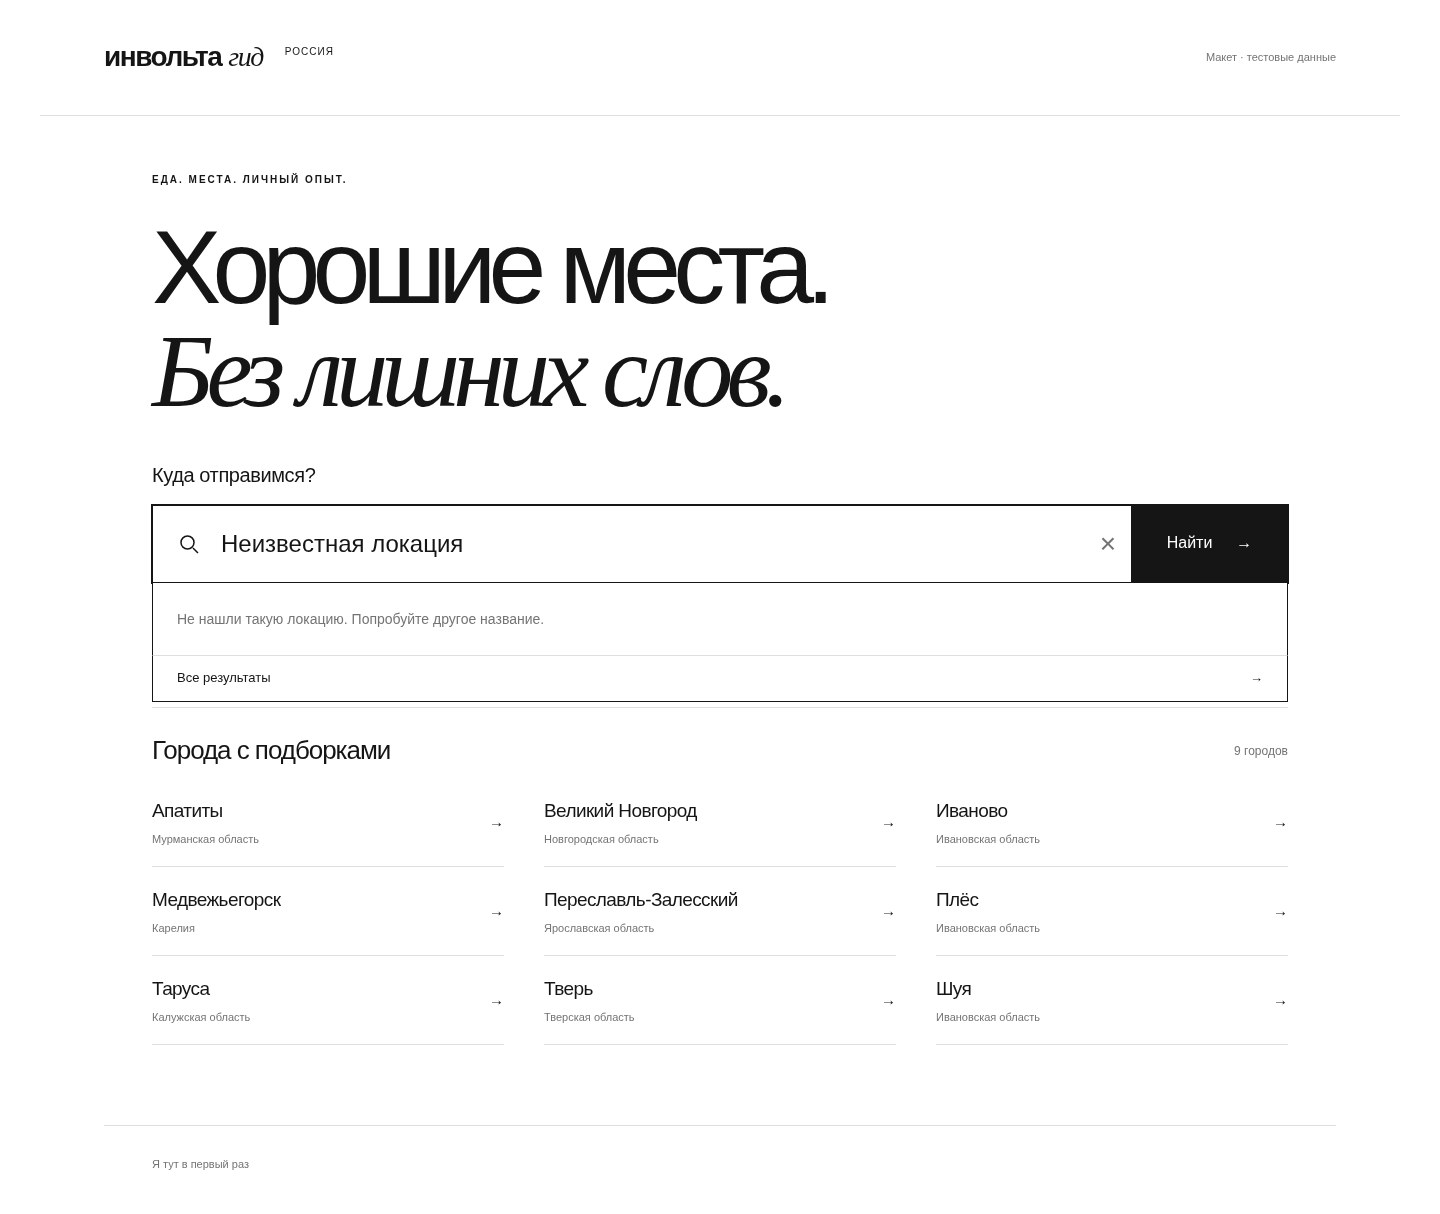
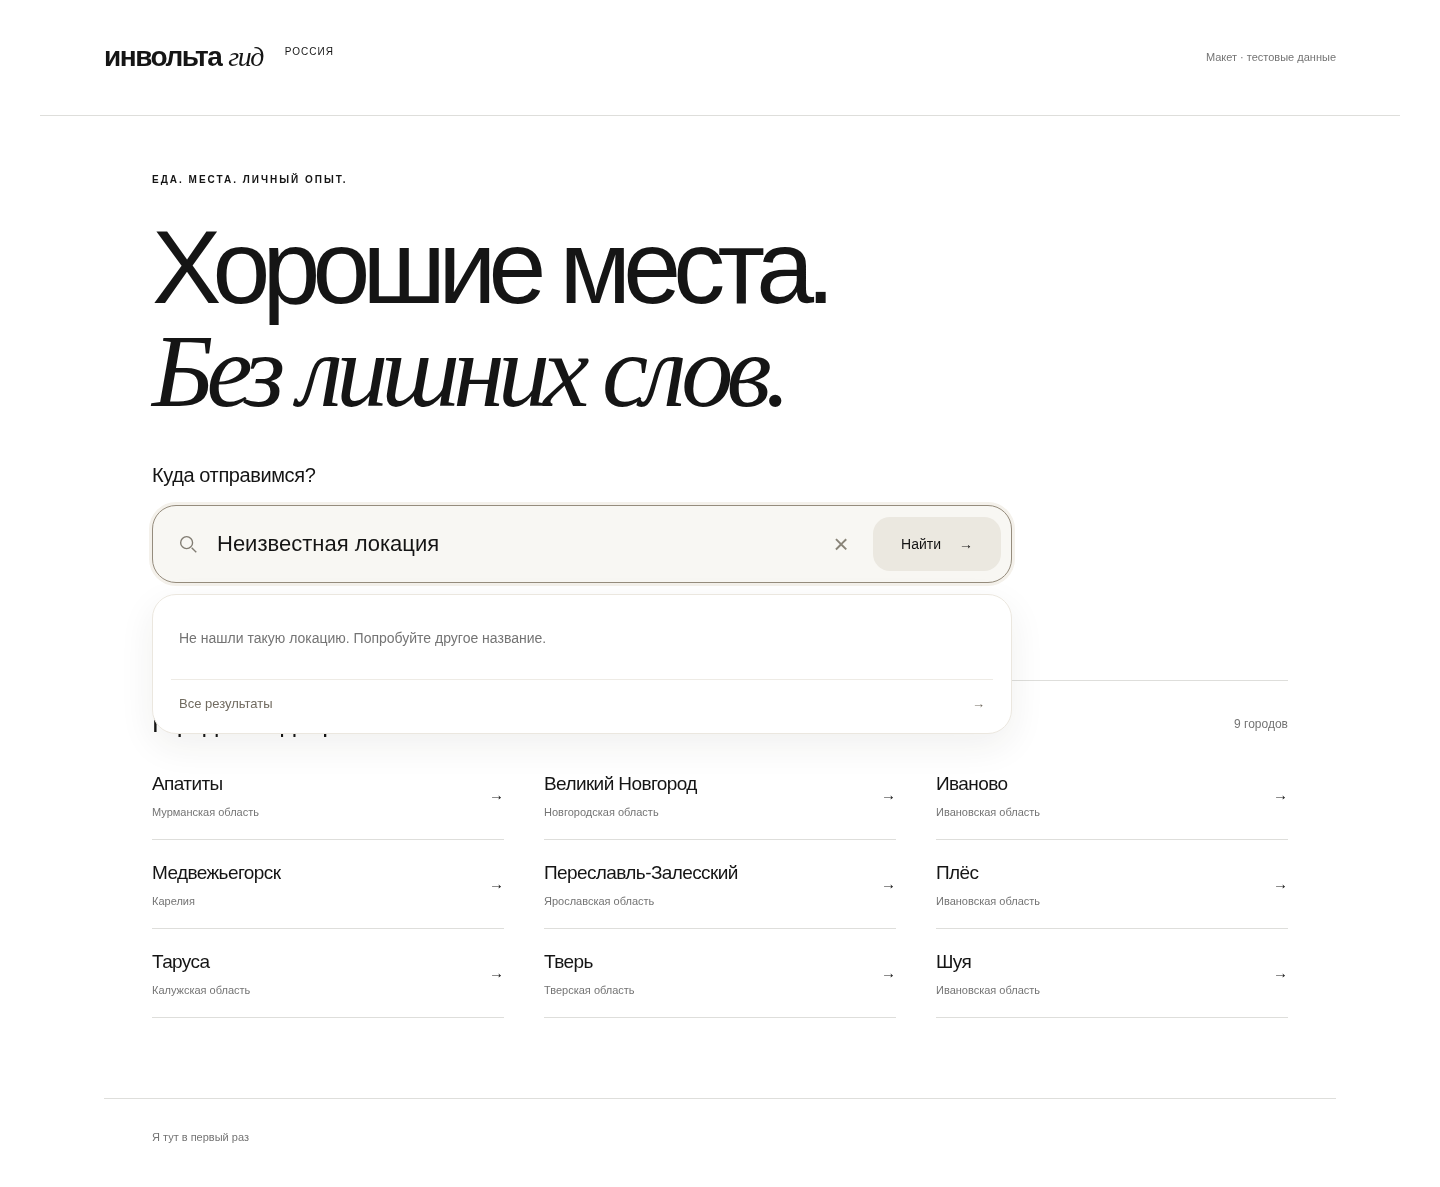
Soften location search preview with rounded shapes and warm tones

diff --git a/docs/design/location-search/search.css b/docs/design/location-search/search.css
@@ -1,38 +1,40 @@
 .prototype-label { color:var(--muted);font-size:11px; }
 .search-hero { padding-top:56px;padding-bottom:38px; }
 .search-hero h1 { margin-bottom:36px; }
-.destination-search { position:relative; }
+.destination-search { position:relative;max-width:860px; }
 .destination-search label { display:block;font-size:20px;font-weight:400;margin-bottom:14px;letter-spacing:-.02em; }
-.search-control { position:relative;display:flex;align-items:center;border:1px solid var(--black);background:var(--paper);min-width:0; }
-.search-control:focus-within { outline:1px solid var(--black);outline-offset:0; }
-.search-symbol { flex:0 0 24px;width:24px;height:24px;margin-left:24px; }
-.search-control input { min-width:0;flex:1;width:auto;height:76px;border:0;padding:18px 20px;font-size:24px;font-weight:400;line-height:1.4;background:transparent; }
+.search-control { position:relative;display:flex;align-items:center;min-width:0;border:1px solid #e2ded5;border-radius:24px;background:#f8f7f3; }
+.search-control:focus-within { outline:none;border-color:#958c7d;box-shadow:0 0 0 3px #f4f1eb; }
+.search-symbol { flex:0 0 22px;width:22px;height:22px;margin-left:24px;color:#817c72; }
+.search-control input { min-width:0;flex:1;width:auto;height:76px;border:0;border-radius:24px;padding:18px 18px;font-size:22px;font-weight:400;line-height:1.4;background:transparent; }
 .search-control input:focus { outline:none; }
 .search-control input::-webkit-search-cancel-button { -webkit-appearance:none; }
-.search-control input::placeholder { color:#858580;opacity:1; }
+.search-control input::placeholder { color:#858075;opacity:1; }
 .search-control button { flex-shrink:0; }
-.search-control .search-submit { align-self:stretch;display:flex;align-items:center;justify-content:center;gap:24px;min-width:156px;padding:16px 25px;font-size:16px;border:0;border-left:1px solid var(--black); }
-.search-clear { display:block;font-family:Arial,sans-serif;font-size:28px;line-height:1;padding:0;width:46px;height:46px;border:0;background:white;color:var(--muted); }
-.search-clear[hidden],.search-menu-footer[hidden] { display:none; }
-.search-clear:hover { color:var(--black); }
-.search-status { min-height:18px;margin:8px 0 0;font-size:12px;color:var(--muted); }
-.search-status:empty { visibility:hidden; }
+.search-control button:focus-visible { outline:2px solid #958c7d;outline-offset:2px; }
+.search-control .search-submit { align-self:center;display:flex;align-items:center;justify-content:center;gap:18px;min-width:128px;height:54px;margin:10px;padding:12px 20px;border:0;border-radius:17px;background:#ebe8e0;color:var(--black);font-size:14px; }
+.search-control .search-submit:hover { background:#e3dfd5;opacity:1; }
+.search-clear { display:block;font-family:Arial,sans-serif;font-size:26px;line-height:1;padding:0;width:44px;height:44px;border:0;border-radius:50%;background:transparent;color:#898478; }
+.search-clear[hidden],.search-menu-footer[hidden],.search-suggestions[hidden] { display:none; }
+.search-clear:hover { color:var(--black);background:#eeebe3;opacity:1; }
+.search-status { position:absolute;width:1px;height:1px;padding:0;margin:-1px;overflow:hidden;clip-path:inset(50%);white-space:nowrap;border:0; }
 .search-intro { color:var(--muted);font-size:14px;line-height:1.7;margin:12px 0 0; }
+.search-hero:has(.search-suggestions:not([hidden])) .search-intro { visibility:hidden; }
 .search-hero + .cities { border-top:1px solid var(--line);padding-top:28px; }
 .search-hero + .cities .section-heading { margin-bottom:12px; }
-.destination-results { position:absolute;z-index:5;top:100%;left:-1px;right:-1px;margin:1px 0 0;padding:0;list-style:none;border:1px solid var(--black);border-top:0;background:var(--paper);max-height:min(440px,45dvh);overflow-y:auto;overscroll-behavior:contain; }
+.search-suggestions { position:absolute;z-index:5;top:calc(100% + 12px);left:-1px;right:-1px;padding:8px;border:1px solid #ebe7df;border-radius:24px;background:var(--paper);box-shadow:0 12px 36px rgb(48 40 26 / 7%); }
+.destination-results { position:static;margin:0;padding:0;list-style:none;border:0;border-radius:16px;background:var(--paper);max-height:min(440px,45dvh);overflow-y:auto;overscroll-behavior:contain; }
 .destination-results[hidden] { display:none; }
-.destination-result { display:flex;align-items:center;justify-content:space-between;min-height:72px;padding:13px 24px;border-bottom:1px solid var(--line);cursor:pointer; }
-.destination-result:last-child { border-bottom:0; }
-.destination-result[aria-selected="true"] { background:var(--soft); }
+.destination-result { display:flex;align-items:center;justify-content:space-between;min-height:70px;padding:13px 18px;border:0;border-radius:16px;cursor:pointer; }
+.destination-result:hover,.destination-result[aria-selected="true"] { background:#f4f2ec; }
 .destination-result .result-name { display:block;font-size:18px;font-weight:400;line-height:1.4; }
-.destination-result .result-context { display:block;margin-top:3px;font-size:12px;color:var(--muted);line-height:1.5; }
-.destination-result .result-arrow { margin-left:18px;font-size:22px;line-height:1;color:var(--muted); }
-.destination-result mark { padding:0;background:transparent;color:inherit;font-weight:700; }
-.destination-results .search-empty { padding:25px 24px;color:var(--muted);font-size:14px;cursor:default; }
-.search-menu-footer { position:absolute;z-index:6;left:-1px;right:-1px;top:calc(100% + var(--menu-height,0px));border:1px solid var(--black);border-top:1px solid var(--line);background:var(--paper); }
-.search-menu-footer button { width:100%;display:flex;justify-content:space-between;align-items:center;color:var(--black);background:var(--paper);border:0;padding:14px 24px;font-size:13px;text-align:left; }
-.search-menu-footer button:hover { background:var(--soft);opacity:1; }
+.destination-result .result-context { display:block;margin-top:3px;font-size:12px;color:#817b70;line-height:1.5; }
+.destination-result .result-arrow { margin-left:18px;font-size:19px;line-height:1;color:#a49c8e; }
+.destination-result mark { padding:0;background:transparent;color:inherit;font-weight:600; }
+.destination-results .search-empty { padding:24px 18px;color:var(--muted);font-size:14px;cursor:default; }
+.search-menu-footer { position:static;margin:6px 10px 0;padding-top:4px;border:0;border-top:1px solid #eeebe5;background:transparent; }
+.search-menu-footer button { width:100%;display:flex;justify-content:space-between;align-items:center;color:#716b60;background:transparent;border:0;border-radius:12px;padding:12px 8px;font-size:13px;text-align:left; }
+.search-menu-footer button:hover { background:#f8f7f3;opacity:1; }
 .search-hero + .cities .city-link { padding-top:18px;padding-bottom:18px; }
 @media (max-width:650px) {
   .prototype-label { max-width:76px;font-size:9px;line-height:1.5;text-align:right; }
@@ -40,17 +42,21 @@
   .search-hero h1 { font-size:clamp(46px,12.5vw,72px);margin-bottom:28px; }
   .search-hero .eyebrow { font-size:9px;letter-spacing:1.6px; }
   .destination-search label { font-size:18px;margin-bottom:12px; }
-  .search-control input { height:64px;padding:15px 12px;font-size:18px; }
-  .search-symbol { margin-left:16px;width:20px;height:20px;flex-basis:20px; }
-  .search-control .search-submit { min-width:58px;width:58px;padding:12px;font-size:24px; }
+  .search-control { border-radius:22px; }
+  .search-control input { height:66px;padding:15px 11px;font-size:18px; }
+  .search-symbol { margin-left:17px;width:19px;height:19px;flex-basis:19px; }
+  .search-control .search-submit { min-width:44px;width:44px;height:44px;margin:10px;padding:10px;border-radius:50%;font-size:22px; }
   .search-submit > span:first-child { display:none; }
-  .search-clear { width:36px;height:44px;font-size:24px; }
+  .search-clear { width:32px;height:44px;font-size:24px; }
   .search-intro { font-size:12px;line-height:1.7;margin-top:8px; }
   .desktop-break { display:none; }
-  .destination-result { min-height:68px;padding:12px 16px; }
+  .search-suggestions { top:calc(100% + 10px);padding:6px;border-radius:22px; }
+  .destination-results { border-radius:16px; }
+  .destination-result { min-height:68px;padding:12px 12px;border-radius:15px; }
   .destination-result .result-name { font-size:17px; }
   .destination-result .result-context { font-size:11px; }
-  .search-menu-footer button { padding:14px 16px; }
-  .destination-results .search-empty { padding:22px 16px;font-size:13px; }
+  .search-menu-footer { margin-left:8px;margin-right:8px; }
+  .search-menu-footer button { padding:12px 4px; }
+  .destination-results .search-empty { padding:22px 12px;font-size:13px; }
   .search-hero + .cities { padding-top:24px; }
 }

diff --git a/docs/design/location-search/demo.js b/docs/design/location-search/demo.js
@@ -19,6 +19,7 @@
   const status=document.querySelector('#search-status');
   const clear=document.querySelector('.search-clear');
   const footer=document.querySelector('.search-menu-footer');
+  const panel=document.querySelector('.search-suggestions');
   const unavailable=new URLSearchParams(location.search).get('state')==='error';
   const normalize=text=>text.toLowerCase().replaceAll('ё','е').trim();
   const safeHighlight=(element,text,query)=>{
@@ -33,14 +34,11 @@
     selector:'#destination',wrapper:false,threshold:2,debounce:180,submit:true,
     data:{src:async query=>unavailable?[]:records.filter(row=>normalize(row.name+' '+row.context+' '+(row.alias||'')).includes(normalize(query))),keys:['name'],cache:false},
     searchEngine:()=> ' ',
-    resultsList:{class:'destination-results',maxResults:6,noResults:true,element:(list,data)=>{
+    resultsList:{class:'destination-results',destination:'.search-menu-footer',position:'beforebegin',maxResults:6,noResults:true,element:(list,data)=>{
       if(!data.results.length){
         const empty=document.createElement('li');empty.className='search-empty';empty.role='presentation';
         empty.textContent=unavailable?'Подсказки временно недоступны.':'Не нашли такую локацию. Попробуйте другое название.';list.append(empty);
       }
-      requestAnimationFrame(()=>{
-        form.style.setProperty('--menu-height',list.getBoundingClientRect().height+'px');
-      });
       status.textContent=data.results.length?`Подсказок: ${data.results.length}`:'Ничего не найдено';
     }},
     resultItem:{class:'destination-result',element:(li,data)=>{
@@ -67,8 +65,8 @@
         else if(event.key==='ArrowUp'){event.preventDefault();widget.previous();}
         else if(event.key==='Enter'&&widget.cursor>=0){event.preventDefault();widget.select(widget.cursor);}
       },
-      open:()=>{footer.hidden=false;},
-      close:()=>{footer.hidden=true;}
+      open:()=>{panel.hidden=false;footer.hidden=false;},
+      close:()=>{panel.hidden=true;footer.hidden=true;}
     }}
   });
   input.setAttribute('aria-autocomplete','list');

diff --git a/docs/design/location-search/index.html b/docs/design/location-search/index.html
@@ -25,7 +25,9 @@
 <input id="destination" type="search" name="q" placeholder="Город, район, курорт" autocomplete="off" spellcheck="false" enterkeyhint="search" autocapitalize="none" aria-describedby="search-status">
 <button type="button" class="search-clear" aria-label="Очистить поиск" hidden>×</button>
 <button type="submit" class="search-submit" aria-label="Найти"><span>Найти</span><span aria-hidden="true">→</span></button>
+<div class="search-suggestions" hidden>
 <div class="search-menu-footer" hidden><button type="submit">Все результаты <span aria-hidden="true">→</span></button></div>
+</div>
 </div>
 <p id="search-status" role="status" aria-live="polite" class="search-status"></p>
 </form>

diff --git a/docs/design/location-search/README.md b/docs/design/location-search/README.md
@@ -2,7 +2,7 @@
 
 **Статус: интерактивный макет, ожидает согласования владельцем.**
 Продуктовые шаблоны, сервер, БД и production не изменены. Прототип на тестовых
-данных: выбор и отправка показывают результат в подписи вместо реального перехода.
+данных: выбор заполняет поле, отправка эмулируется без реального перехода.
 
 Открыть [index.html](index.html). Скрипты и CSS локальные; сборка и CDN не нужны.
 Для просмотра через HTTP из корня репозитория:
@@ -36,15 +36,20 @@ ARIA и выбором. У штатного поведения есть огра
 
 ## Главная и поведение
 
-Сразу под существующим H1 — подписанное поле «Куда отправимся?» на всю ширину
-контента. Прежний поиск из раздела городов переносится сюда, второго поля нет.
+Сразу под существующим H1 — широкое подписанное поле «Куда отправимся?».
+Прежний поиск из раздела городов переносится сюда, второго поля нет.
 Объяснение гида становится небольшим текстом под поиском. Ниже остаются готовые
 подборки: самостоятельный способ навигации и полезное содержимое без ввода.
 
-Белый фон, чёрный контур, прямые углы, существующие Arial/Georgia. Подсказка —
-две строки: название и тип/регион; для одноимённых мест также родитель. Мягкий
-серый фон означает выбранный пункт. Совпадение выделяется начертанием, без цвета.
-Список накладывается поверх контента и не сдвигает главную при каждом вводе.
+По замечанию Алекса убраны жёсткая рамка, прямые углы, чёрный блок кнопки и
+разлиновка подсказок. Направление — мягкий редакционный поиск: скругления,
+тёплый светлый фон поля, тонкий контур и спокойная кнопка. В макете ширина
+ограничена 860 px; радиусы 22–24 px, отдельная панель с лёгкой тенью и воздушные
+строки без разделителей. Эти конкретные пропорции предложены для просмотра.
+Гарнитуры остаются Arial/Georgia. Подсказка — две строки: название и тип/регион;
+для одноимённых мест также родитель. Тёплая светлая подложка означает выбранный
+пункт. Совпадение выделяется начертанием, без цвета. Список накладывается поверх
+контента и не сдвигает главную при каждом вводе.
 
 - От двух символов, пауза 180 мс, максимум шесть результатов.
 - Пустое поле не запрашивает сервер, автофокус не открывает клавиатуру телефона.

diff --git a/docs/VISUAL_STYLE.md b/docs/VISUAL_STYLE.md
@@ -61,7 +61,10 @@
 
 Основные кнопки сайта плоские, тёмные, прямоугольные. Круглая кнопка микрофона —
 отдельное согласованное решение для записи голоса: она остаётся круглой и по
-центру доступной ширины. Это не повод скруглять остальные элементы.
+центру доступной ширины. По прямому решению Алекса поиск на главной также получает
+мягкие скругления и спокойную кнопку: жёсткая прямоугольная рамка и тяжёлый чёрный
+блок здесь не подходят характеру гида. Новый [макет поиска](design/location-search/README.md)
+задаёт предложенные пропорции; это уточнение направления, пока не внедрённый интерфейс.
 
 Ссылки и небольшие стрелки `→` / `↗` встроены в текст. Для микрофона подходит
 простой контурный SVG. Декоративные тени, градиенты, цветные плашки и новые
